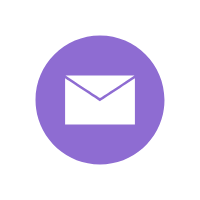
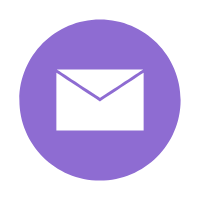
página Como Funciona

diff --git a/future-ninjas/src/Componets/ComoFunciona/index.js b/future-ninjas/src/Componets/ComoFunciona/index.js
@@ -3,7 +3,7 @@ import axios from 'axios';
 import LogoFutureNinja from '../../Resources/logo.png'
 import LogoFacebook from '../../Resources/facebook.png'
 import LogoTwitter from '../../Resources/twitter.png'
-import LogoEmail from '../../Resources/email.png'
+import LogoEmail from '../../Resources/Email.png'
 import LogoInstagram from '../../Resources/instagram.png'
 import styled from 'styled-components';
 
@@ -17,7 +17,7 @@ margin: 2vw 4vw;
 `
 const Banner= styled.section`
 display: flex;
-height: 25rem;
+height: 24rem;
 width: 100%;
 background-color: #F5F3FB;
 `
@@ -64,7 +64,7 @@ position: absolute;
 height: 38px;
 width: 15vw;
 left: 9vw;
-bottom: 20vw;
+bottom: 21.8vw;
 font-style: normal;
 font-weight: 600;
 font-size: 17px;
@@ -85,12 +85,46 @@ bottom: 0;
 const Logos = styled.section`
 display: flex;
 position: absolute;
-left: 50%;
-bottom: 5vw;
+left: 40%;
+bottom: 3vw;
+margin: 1vw 1vw 1vw 1vw;
 `
 const Instagram = styled.img`
-width:75px;
-height: 75px;
+width:60px;
+height: 60px;
+`
+const Facebook = styled.img`
+width:60px;
+height: 60px;
+`
+const Email = styled.img`
+width: 59px;
+height: 59px;
+`
+const Twitter = styled.img`
+width:60px;
+height: 60px;
+`
+const BlocoTexto = styled.section`
+position: absolute;
+left: 9vw;
+width: 80vw;
+height: 11vw;
+bottom: 8vw;
+padding: 3px;
+margin-bottom: 20px;
+margin-top: 10px;
+background-image: linear-gradient(white, #F5F5F5);
+`
+const Texto = styled.p`
+color: #404040;
+font-weight: 550;
+font-size: 17px;
+font-style: regular;
+text-align: justify;
+padding: 5px;
+margin-left: 6px;
+margin-right: 6px;
 `
 export default class ComoFunciona extends Component {  
    render() {
@@ -105,9 +139,14 @@ export default class ComoFunciona extends Component {
             <TextoCard> Como Funciona? </TextoCard>
 
             <Logos>
-            <Instagram src={LogoInstagram}/>
+            <Instagram alt="Instagram" src={LogoInstagram}/>
+            <Facebook alt="Facebook"  src={LogoFacebook}/>
+            <Email alt="E-mail"  src={LogoEmail}/>
+            <Twitter alt="Twitter"  src={LogoTwitter}/>
             </Logos>
-
+            <BlocoTexto> 
+               <Texto>Sabemos o quanto é difícil achar um profissional de confiança para desenvolver serviços que não temos muito domínio. Assim nasce a FutureNinjas com a proposta de facilitar o encontro da tarefa e a resolução: você e um profissional ninja. Você não precisa se preocupar com nada: basta inscrever o seu serviço e um dos nossos ninjas entrará em contato em até 24hrs. O agendamento e pagamento será feito tudo dentro da nossa plataforma garantindo mais segurança para ambas as partes. E sempre ao final do serviço não se esqueça de avaliar seu ninja.</Texto>
+            </BlocoTexto>
             <Footer/>
 
          </PageContainer>

diff --git a/future-ninjas/public/index.html b/future-ninjas/public/index.html
@@ -3,6 +3,7 @@
   <head>
     <meta charset="utf-8" />
     <link rel="icon" href="%PUBLIC_URL%/favicon.ico" />
+    <link href="https://fonts.googleapis.com/css?family=Roboto&display=swap" rel="stylesheet">
     <meta name="viewport" content="width=device-width, initial-scale=1" />
     <meta name="theme-color" content="#000000" />
     <meta
